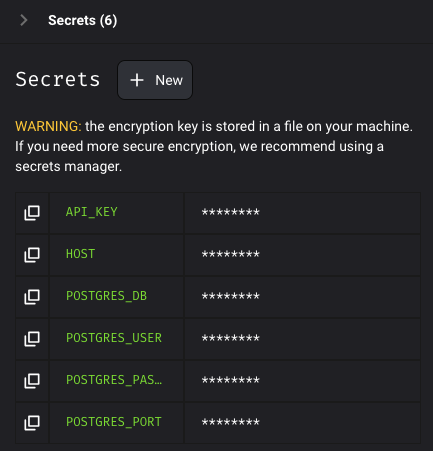
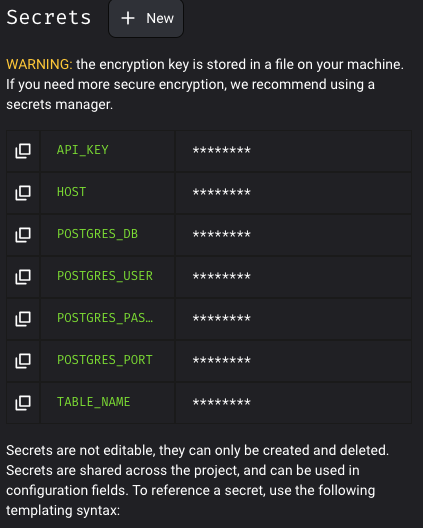
update pipeline for top10 USA ind/market cap & readme

diff --git a/README.md b/README.md
@@ -1,3 +1,12 @@
+# Architecture Desing
+- I decided to go with MAGE as orchestrator tool because this is incredible easy to use and also makes a good modularization for the execution plan.
+
+- For the scripting part I used python, because it was the required programming language and it has great compatibility with orchestration tools as Airflow, Mage, Dagster.
+
+- For Storage, I use timescaleDB as in this project is required to use TIME SERIES data, which I pull from alphavantage API. This type of DB are by default configured to partition and index records by a timestamp column so at the moment it was not necessary to make indexing or clustering. 
+
+- I choose DBeaver to interact with the database.
+
 # Setup
 
 ## APIs
@@ -23,6 +32,7 @@ POSTGRES_DB
 ```
 docker compose up
 ```
+4. after docker compose finishes go to ```http://{port}:6789/pipelines```
 
 ## Set secrets in Mage
 For setting up the secrets you need to go:
@@ -30,8 +40,33 @@ For setting up the secrets you need to go:
 - 2 to secrets
 - 3 start adding
 - [Documentation](https://docs.mage.ai/development/variables/secrets)
+
 ![Image1](./images/MageSecrets1.png)
+<br>
+- Here are all the SECRETS needed: <br>
+
 ![Image2](./images/MageSecrets2.png)
+
+## Pipeline Import
+- Go to the dir where you have the docker-compose.yml
+- There should be two new dirs:
+    - mage_data
+    - magic
+- copy all the files inside financialtimeseries inside the magic folder
+```
+cp ./financialtimeseries/* ./magic/
+```
+- You now should see the pipeline in the browser
+
+![Pipelines](./images/PipelineBrowser.png)
+
+- click on the pipeline name and it would navigate to the triggers section
+
+![Triggers](./images/TriggersBrowser.png)
+
+- hit on Run @once and in the pop-up run now, after a while you should see:
+
+![Running](./images/RunningPipeline.png)
 
 ## Pipeline Order
 - 1 [PullData](./financialtimeseries/data_loaders/stocksdata.py)
@@ -43,6 +78,7 @@ For setting up the secrets you need to go:
 ![Results](./images/OutputSQL.png)
 
 ## Tools
-- Mage
-- TimeScaleDB
-- Docker
+- [Mage](https://docs.mage.ai/introduction/overview)
+- [TimeScaleDB](https://docs.timescale.com/)
+- [Docker](https://docs.docker.com/)
+- [DBeaver Community](https://dbeaver.io/download/)
